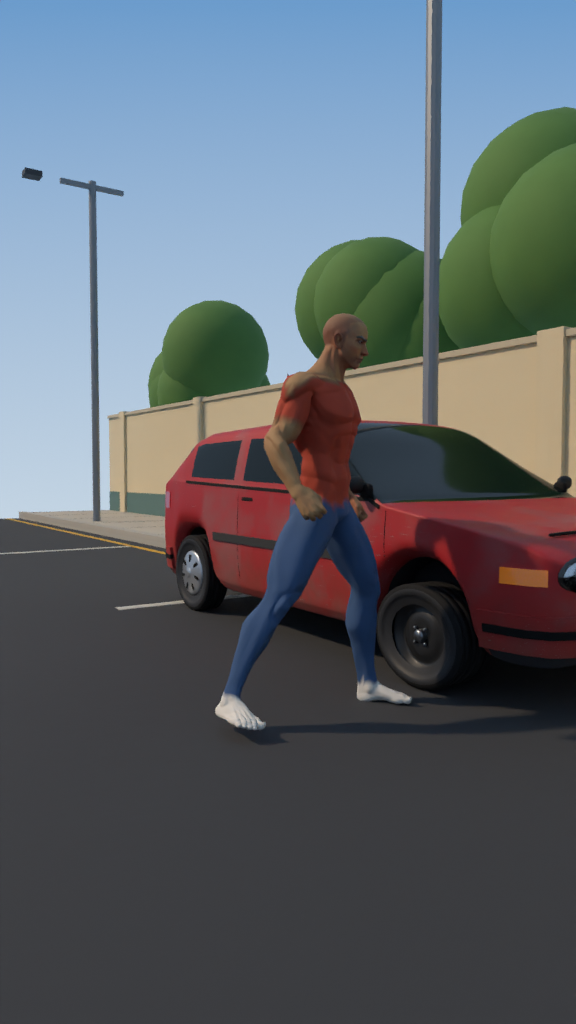
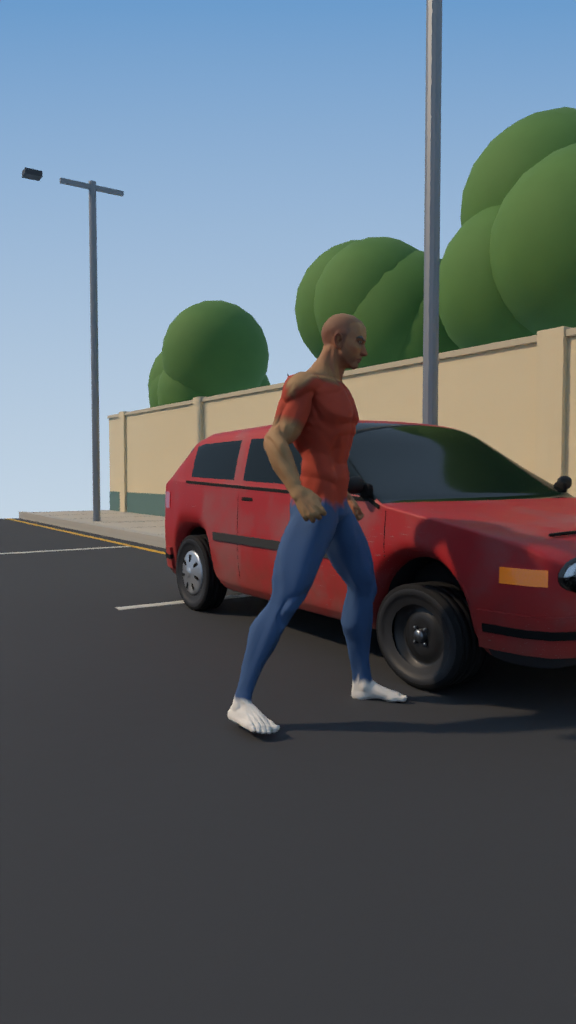
Vídeo 02 pronto (montagem final) + docs
Claude-Session: https://claude.ai/code/session_01LTuGaoNMB16qvfW22NeZiH

diff --git a/motor3d/animacao_pronta.py b/motor3d/animacao_pronta.py
@@ -413,7 +413,7 @@ def caminhar(P, acao, t0, t1, p0, p1, fps=24, vel=None):
     (vel) que faz o pé não escorregar: use-a no trecho de encadear (opção vel)."""
     from mathutils import Vector
     raiz = P["raiz"]
-    v_acao = velocidade_passo(P, acao, fps=fps)
+    v_acao = vel or velocidade_passo(P, acao, fps=fps)     # vel = velocidade conhecida da ação (m/s no mundo)
     d = (Vector(p1) - Vector(p0)).length
     v_real = d / max(t1 - t0, 1e-3)
     raiz.location = p0
@@ -506,12 +506,15 @@ def _rot_mundo(arm, osso):
 
 
 def retarget(fonte, alvo, mapa, q0, q1, inicio=1, passo=1.0, nome_acao="retarget", raiz_osso=None,
-             mover_raiz="altura"):
+             mover_raiz="altura", amplitude=1.0, chao=True):
     """Copia o movimento do esqueleto `fonte` (BVH) para `alvo` e grava numa ação nova do alvo.
     q0..q1: quadros da fonte; inicio: 1º quadro na ação do alvo; passo: quadros da fonte por quadro do alvo.
     mover_raiz: "altura" = só sobe/desce o quadril (ande com a raiz do objeto); "tudo" = deslocamento completo
     (relativo ao 1º quadro); None = quadril fixo. A fonte fica intacta (apague-a depois).
-    O giro em z do ator no quadro q0 é anulado: o alvo começa olhando para a frente dele (-y no Zé e no UE)."""
+    O giro em z do ator no quadro q0 é anulado: o alvo começa olhando para a frente dele (-y no Zé e no UE).
+    amplitude < 1 encolhe o gesto em torno da pose do quadro q0 (0.5 = chute na metade da altura).
+    chao=True: depois de posar, sobe/desce o quadril para o tornozelo mais baixo ficar na altura do repouso (pé no
+    chão, sem flutuar nem afundar; só nos quadros em que os dois pés estão perto do chão na fonte)."""
     bpy = _bpy()
     from mathutils import Quaternion, Matrix, Vector
     sc = bpy.context.scene
@@ -575,6 +578,10 @@ def retarget(fonte, alvo, mapa, q0, q1, inicio=1, passo=1.0, nome_acao="retarget
         break
     perna_f = perna(fonte, mwf, "lfemur", "ltibia", "lfoot")
     k_alt = perna_a / max(perna_f, 1e-3)
+    # altura: casa a articulação do quadril (meio das coxas), não a raiz (na CMU a raiz fica 9 cm acima dela)
+    canelas = [m[0] for m in mapa if m[1] in ("ltibia", "rtibia")]
+    tornozelo0 = min((mwa @ alvo.pose.bones[c].tail).z for c in canelas)
+    quadril_a0 = ((mwa @ alvo.pose.bones[src_l[0]].head) + (mwa @ alvo.pose.bones[src_r[0]].head)) / 2
     if ad_f:
         ad_f.action = acao_f
     sc.frame_set(int(q0))
@@ -596,6 +603,7 @@ def retarget(fonte, alvo, mapa, q0, q1, inicio=1, passo=1.0, nome_acao="retarget
     arm_inv = mwa.to_quaternion().inverted()
     base_xy = None
     ultimo = {}
+    delta0 = {}
     ancestrais = set()
     for t in nomes:
         p = alvo.pose.bones[t].parent
@@ -618,6 +626,10 @@ def retarget(fonte, alvo, mapa, q0, q1, inicio=1, passo=1.0, nome_acao="retarget
             if pb.name in nomes:
                 t, s, _, _ = nomes[pb.name]
                 delta = W @ _rot_mundo(fonte, s) @ rest_f[s].inverted() @ Ginv
+                if amplitude != 1.0:
+                    if s not in delta0:
+                        delta0[s] = delta.copy()
+                    delta = delta0[s].slerp(delta, amplitude)
                 q_mundo = delta @ calib[t]
                 q_arm = arm_inv @ q_mundo
                 qb = E.to_quaternion().inverted() @ q_arm
@@ -633,7 +645,13 @@ def retarget(fonte, alvo, mapa, q0, q1, inicio=1, passo=1.0, nome_acao="retarget
                     if base_xy is None:
                         base_xy = hf.copy()
                     d = W @ ((hf - base_xy) * k_alt)
-                    d.z = hf.z * k_alt - h_a0.z
+                    zq = (mwf @ fonte.pose.bones["lfemur"].head).z + (mwf @ fonte.pose.bones["rfemur"].head).z
+                    dz = zq / 2 * k_alt - quadril_a0.z
+                    d.z = dz
+                    if amplitude != 1.0:
+                        z0 = delta0.setdefault("_z", dz)
+                        d = d * amplitude
+                        d.z = z0 + (dz - z0) * amplitude
                     if mover_raiz == "altura":
                         d.x = d.y = 0.0
                     loc_arm = (mwa.inverted().to_3x3() @ d)
@@ -648,11 +666,37 @@ def retarget(fonte, alvo, mapa, q0, q1, inicio=1, passo=1.0, nome_acao="retarget
                     pb.keyframe_insert("rotation_quaternion", frame=inicio + k)   # outra ação não o desalinha)
                     pb.keyframe_insert("location", frame=inicio + k)
             P[pb.name] = M
+        if chao and mover_raiz:
+            # tornozelo = cauda da canela do alvo; corrige só se a fonte tem um pé apoiado (o mais baixo < 12 cm)
+            zf = min((mwf @ fonte.pose.bones[x].head).z for x in ("lfoot", "rfoot"))
+            if zf < 0.12 * (1 / max(k_alt, 1e-3)) + 0.06:
+                za = min((mwa @ (P[c] @ Vector((0, alvo.pose.bones[c].length, 0)))).z for c in canelas)
+                dz_mundo = tornozelo0 - za
+                rb = alvo.pose.bones[raiz_osso]
+                loc_arm = mwa.inverted().to_3x3() @ Vector((0, 0, dz_mundo))
+                rb.location = rb.location + rb.bone.matrix_local.to_3x3().inverted() @ loc_arm
+                rb.keyframe_insert("location", frame=inicio + k)
         f += passo
         k += 1
     ad_a.action = None
     ad_a.use_nla = usa_nla
+    acao["k_alt"] = k_alt                 # escala fonte → alvo (para velocidade_bvh)
     return acao
+
+
+def velocidade_bvh(fonte, q0, q1, fps=24, escala=1.0):
+    """Velocidade horizontal média (m/s) do quadril da fonte entre q0 e q1, vezes `escala` (use acao["k_alt"]
+    do retarget). Serve para andar a raiz na mesma velocidade de uma caminhada retargetada com mover_raiz="altura"."""
+    bpy = _bpy()
+    sc = bpy.context.scene
+    pts = []
+    for f in (q0, q1):
+        sc.frame_set(int(f))
+        h = fonte.matrix_world @ fonte.pose.bones["hips"].head
+        pts.append(h)
+    d = pts[1] - pts[0]
+    d.z = 0
+    return d.length / max((q1 - q0) / fps, 1e-3) * escala
 
 
 def apagar(obj):

diff --git a/videos/_animacao_pronta/teste_b.py b/videos/_animacao_pronta/teste_b.py
@@ -1,0 +1,107 @@
+"""Teste B: captura de movimento da CMU (retarget) no NOSSO Zé (boneco_adulto, roupa civil, esqueleto de 15 ossos)
+na mesma rua: anda (141_25), chuta o pneu (143_24) e dá de ombros (141_21), encadeado no NLA. O rosto continua
+sendo o nosso (fala/olhar/sobrancelha por nós Value) e as mãos trocam por pose, como no D_chute.
+
+    AMOSTRAS=8 ~/.venv-video/bin/python teste_b.py teste 1.0 2.4 3.8
+    AMOSTRAS=8 ~/.venv-video/bin/python teste_b.py video 24
+"""
+import os, sys, math, subprocess
+AQUI = os.path.dirname(os.path.abspath(__file__))
+RAIZ = os.path.abspath(os.path.join(AQUI, "..", ".."))
+sys.path.insert(0, os.path.join(RAIZ, "videos", "calibrar_pneu", "planos"))
+import _rua as R
+C = R.C
+import bpy
+from mathutils import Vector
+import animacao_pronta as ap
+import boneco_adulto as ba
+
+BVH = os.path.join(RAIZ, "assets", "mocap", "cmu_bvh")
+FPS = 24
+D = 4.8
+P0 = {"nome": "teste_b", "ini": 0.0, "fim": D, "dur": D}
+sc = C.setup(P0, amostras=int(os.environ.get("AMOSTRAS", 8)))
+R.dia(sc, sol=(50, 0, -35))
+M = {}
+c, xf, pn = R.cena_carro_rua(M)
+yT = pn.y
+
+# ---- o NOSSO motorista (mesmo do D_chute)
+Z = ba.ze_adulto("cara", M, expressao="neutro", maos="todas", **R.CARA)
+ba.mao(Z, "e", "relaxada", 1)
+ba.mao(Z, "d", "relaxada", 1)
+P = {"raiz": Z["raiz"], "arm": Z["arm"], "acoes": []}
+bpy.context.view_layer.update()
+vel_andar = None
+for tk, q0, q1, nome, amp in (("141_25", 40, 110, "cmu_andar", 1.0), ("143_24", 106, 136, "cmu_chute", 0.6),
+                              ("141_21", 24, 64, "cmu_ombros", 1.0)):
+    src = ap.importar_bvh(os.path.join(BVH, tk + ".bvh"), "src_" + tk)
+    a = ap.retarget(src, Z["arm"], ap.MAPA_CMU_ZE, q0, q1, nome_acao=nome, amplitude=amp)
+    if nome == "cmu_andar":
+        vel_andar = ap.velocidade_bvh(src, q0, q1, escala=a["k_alt"])
+    P["acoes"].append(a)
+    ap.apagar(src)
+
+t_para, t_chute, t_omb = 1.6, 1.9, 3.1
+p_fim = Vector((pn.x + 0.05, yT - 0.62, 0))
+p_ini = p_fim - Vector((vel_andar * t_para, 0, 0))
+print("velocidade da caminhada CMU no Zé: %.2f m/s" % vel_andar)
+ap.colocar(P, p_ini, rumo=90)
+ap.caminhar(P, "cmu_andar", 0.0, t_para, p_ini, p_fim, vel=vel_andar)
+raiz = P["raiz"]
+for t, r in ((t_para - 0.1, 90), (t_chute, 150), (t_omb - 0.05, 150), (t_omb + 0.4, 55)):
+    raiz.rotation_euler = (0, 0, math.radians(r))
+    raiz.keyframe_insert("rotation_euler", frame=C.F(t))
+ap.encadear(P, [("cmu_andar", 0.0, t_para, {"loop": False}),
+                ("cmu_chute", t_para, t_omb - t_para, {"blend": 0.3, "loop": False}),
+                ("cmu_ombros", t_omb, D - t_omb, {"blend": 0.25, "loop": False})], fps=FPS)
+
+# ---- rosto e mãos (o que o pacote pronto não tem): olha o pneu, desdém + fala no "tá bom ainda"
+V = Z["rosto"]
+tb = t_omb + 0.3
+ba.mao(Z, "e", "aberta", C.F(tb))
+ba.mao(Z, "d", "aberta", C.F(tb))
+R.fala(V, tb, tb + 0.7, forte=0.6, seed=3)
+for no, keys in (("sobr_alt", [(0, 0), (tb, 0), (tb + 0.3, 1.0), (D, 0.8)]),
+                 ("sorriso", [(0, 0.1), (tb, 0.1), (tb + 0.3, -0.2)]),
+                 ("abre_olho", [(0, 1), (tb, 1), (tb + 0.3, 0.75)]),
+                 ("olhar_z", [(0, 0), (t_para, -0.6), (tb, -0.6), (tb + 0.3, 0.0)])):
+    for t, v in keys:
+        C.key_val(V[no], t, v)
+
+# ---- TUM
+t_tum = t_para + 0.3 + 0.5
+car = c["raiz"]
+for k in range(8):
+    a = 0.8 * math.exp(-k * 0.45) * (1 if k % 2 == 0 else -1) if k else 0.0
+    R.krot(car, t_tum + k * 0.06, (a, 0, 0))
+
+# ---- câmera (a mesma do teste A)
+c0 = Vector((pn.x + 2.7, yT - 2.6, 1.05))
+a0 = Vector((pn.x - 0.5, yT - 0.5, 0.85))
+cam, al = R.camera(c0, a0, lens=26, dof=5.6)
+R.kloc(cam, 0, c0)
+R.kloc(cam, D, c0 + (a0 - c0) * 0.06)
+
+a = [x for x in sys.argv[1:] if x != "--"]
+modo = a[0] if a else "teste"
+saida = os.path.join(AQUI, "_quadros_b")
+os.makedirs(saida, exist_ok=True)
+if modo == "teste":
+    for t in map(float, a[1:] or ["1.0", "2.4", "3.8"]):
+        sc.frame_set(C.F(t))
+        sc.render.filepath = os.path.join(AQUI, f"teste_b_{t:04.2f}.png")
+        bpy.ops.render.render(write_still=True)
+else:
+    fps_v = int(a[1]) if len(a) > 1 else 12
+    passo = FPS // fps_v
+    fs = list(range(1, C.F(D) + 1, passo))
+    for i, f in enumerate(fs):
+        p = os.path.join(saida, f"{i:04d}.png")
+        if os.path.exists(p):
+            continue
+        sc.frame_set(f)
+        sc.render.filepath = p
+        bpy.ops.render.render(write_still=True)
+    subprocess.run(["ffmpeg", "-loglevel", "error", "-y", "-framerate", str(fps_v), "-i", os.path.join(saida, "%04d.png"),
+                    "-c:v", "libx264", "-pix_fmt", "yuv420p", "-crf", "20", os.path.join(AQUI, "teste_b.mp4")], check=True)

diff --git a/videos/_animacao_pronta/teste_a.py b/videos/_animacao_pronta/teste_a.py
@@ -21,7 +21,7 @@ UBC = os.path.join(A, "personagens/quaternius_ubc/Universal Base Characters[Stan
 UAL = os.path.join(A, "personagens/quaternius_ual/Universal Animation Library[Standard]/Unreal-Godot/UAL1_Standard.glb")
 BVH = os.path.join(A, "mocap/cmu_bvh")
 FPS = 24
-D = 4.0
+D = 4.8
 P0 = {"nome": "teste_a", "ini": 0.0, "fim": D, "dur": D}
 sc = C.setup(P0, amostras=int(os.environ.get("AMOSTRAS", 8)))
 R.dia(sc, sol=(50, 0, -35))
@@ -34,19 +34,19 @@ P = ap.importar(UBC, "motorista")
 ap.vestir(P, camisa="#B5452F", calca="#3A5A86", sapato="#E8E4DC")      # mesma roupa do motorista do vídeo 02
 P["raiz"].scale = (1.76 / 1.81,) * 3
 P["acoes"] += ap.carregar_acoes(UAL)
-for tk, q0, q1, nome in (("143_24", 21, 41, "cmu_chute"), ("141_21", 12, 32, "cmu_ombros")):
+for tk, q0, q1, nome, amp in (("143_24", 106, 136, "cmu_chute", 0.6), ("141_21", 24, 64, "cmu_ombros", 1.0)):
     src = ap.importar_bvh(os.path.join(BVH, tk + ".bvh"), "src_" + tk)
-    P["acoes"].append(ap.retarget(src, P["arm"], ap.MAPA_CMU_UE, q0, q1, nome_acao=nome))
+    P["acoes"].append(ap.retarget(src, P["arm"], ap.MAPA_CMU_UE, q0, q1, nome_acao=nome, amplitude=amp))
     ap.apagar(src)
 
 # ---- caminho: vem de trás do carro (-x) pela calçada, para em frente ao pneu e vira para ele
-t_para, t_chute, t_omb = 1.6, 1.95, 2.8
+t_para, t_chute, t_omb = 1.6, 1.9, 3.1
 p_ini = Vector((pn.x - 2.3, yT - 0.8, 0))
 p_fim = Vector((pn.x + 0.05, yT - 0.62, 0))
 ap.colocar(P, p_ini, rumo=90)
 vel = ap.caminhar(P, "Walk_Loop", 0.0, t_para, p_ini, p_fim)
 raiz = P["raiz"]
-for t, r in ((t_para - 0.1, 90), (t_chute, 150)):
+for t, r in ((t_para - 0.1, 90), (t_chute, 150), (t_omb - 0.05, 150), (t_omb + 0.4, 55)):   # vira para a câmera no "tá bom"
     raiz.rotation_euler = (0, 0, math.radians(r))
     raiz.keyframe_insert("rotation_euler", frame=C.F(t))
 ap.encadear(P, [("Walk_Loop", 0.0, t_para, {"vel": vel}),
@@ -54,8 +54,8 @@ ap.encadear(P, [("Walk_Loop", 0.0, t_para, {"vel": vel}),
                 ("cmu_chute", t_chute, t_omb - t_chute, {"blend": 0.2, "loop": False}),
                 ("cmu_ombros", t_omb, D - t_omb, {"blend": 0.25, "loop": False})], fps=FPS)
 
-# ---- TUM no pneu (chute da CMU: pé mais alto ~quadro 29 da tomada → t_chute + 8/24 s)
-t_tum = t_chute + 0.36
+# ---- TUM no pneu (chute da CMU: pé mais à frente ~quadro 118 da tomada → t_chute + 12/24 s)
+t_tum = t_chute + 0.5
 car = c["raiz"]
 for k in range(8):
     a = 0.8 * math.exp(-k * 0.45) * (1 if k % 2 == 0 else -1) if k else 0.0
@@ -74,7 +74,7 @@ modo = a[0] if a else "teste"
 saida = os.path.join(AQUI, "_quadros_a")
 os.makedirs(saida, exist_ok=True)
 if modo == "teste":
-    for t in map(float, a[1:] or ["0.8", "2.3", "3.2"]):
+    for t in map(float, a[1:] or ["0.8", "2.4", "3.6"]):
         sc.frame_set(C.F(t))
         sc.render.filepath = os.path.join(AQUI, f"teste_a_{t:04.2f}.png")
         bpy.ops.render.render(write_still=True)

diff --git a/CLAUDE.md b/CLAUDE.md
@@ -83,6 +83,21 @@ disso!") → "O certo é simples…" → "Manda esse vídeo pra quem…" → "E 
   - Ponto fraco: carros reais (hatch/SUV ainda com cara de perua); picape e motos ok.
   - Vinil vivo (`boneco.py`, `_estilo3/`) e Parafuso (`pecas_veiculos.py`, `_estilo/`) ficam só como histórico.
 
+**Feito (12/11/2026, noite) — PRIMEIRO VÍDEO:**
+- Vídeo 02 "calibrar o pneu" pronto: `videos/calibrar_pneu/saida/calibrar_pneu_9x16_com_efeitos.mp4` (66,2 s, narração
+  ElevenLabs enviada pelo usuário). Fluxo novo, reutilizável: narração .wav → `faster-whisper` (venv no scratchpad;
+  `palavras.json` = tempo de cada palavra) → `tempos.json` (14 planos) → `planos/*.py` (cada plano monta a própria
+  cena e renderiza com numeração global, em paralelo; infra em `comum.py`, `_rua.py`, `_tec.py`) → `montar.py`
+  (HUD do estilo adulto, efeitos sincronizados pelas palavras, mix com a narração, whip nas trocas rua ↔ técnico).
+  Render ~2 h com 3–4 filas em CPU (12–16 amostras, 576×1024).
+- Feedback do usuário na prévia: personagem e câmera **parados demais** → próximos vídeos: câmera viva (órbita,
+  push-in forte, cortes a cada 1,5–2 s), mais cena técnica, personagem só em momentos curtos.
+- Material livre baixado (CC0/OFL; binários fora do git, `scripts/baixar_assets.sh`, `assets/LICENCAS.md`):
+  HDRIs, texturas PBR e modelos do Poly Haven/ambientCG, carros e rua Quaternius/Kenney, sons CC0, fontes;
+  `motor3d/biblioteca.py` (`hdri`, `textura_pbr`, `importar_modelo`). Prova: `videos/_assets/prova_rua.png`.
+- Teste de animação pronta (Quaternius + mocap CMU, `motor3d/animacao_pronta.py`) em andamento. Mixamo exige login
+  do usuário (ele baixa os .fbx e envia).
+
 **Pendente, nesta ordem:**
 1. Lapidar o estilo adulto (Zé menos "manequim", carros sem cara de perua) e o usuário aprovar; aprovar o nome do canal.
 2. Para animar 70 s (apontado pelo revisor): pneu com sulco + `girar_rodas()` com sinal por lado; todas as mãos
